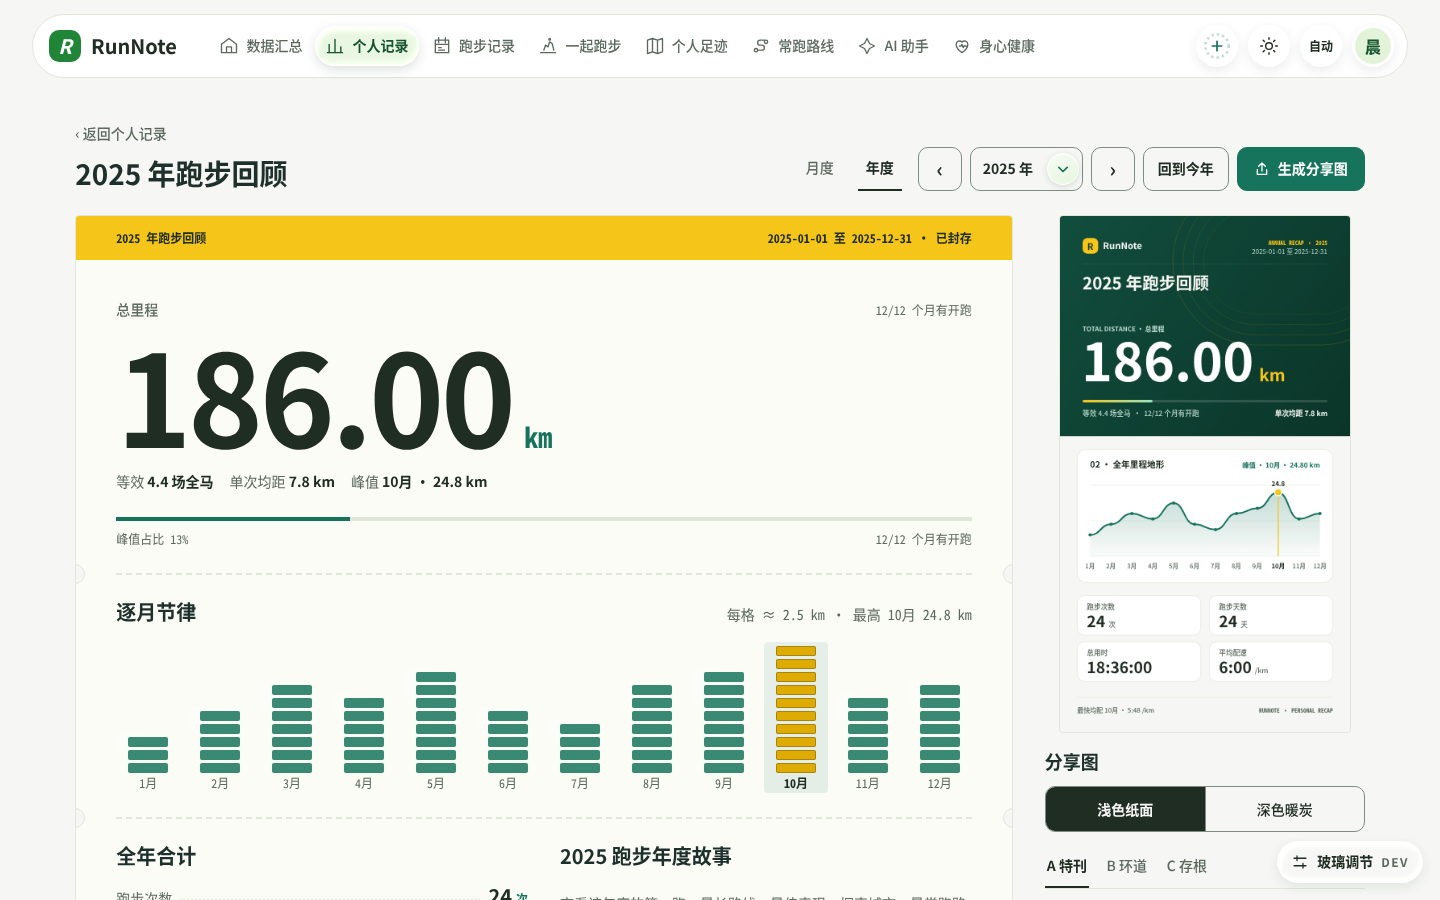
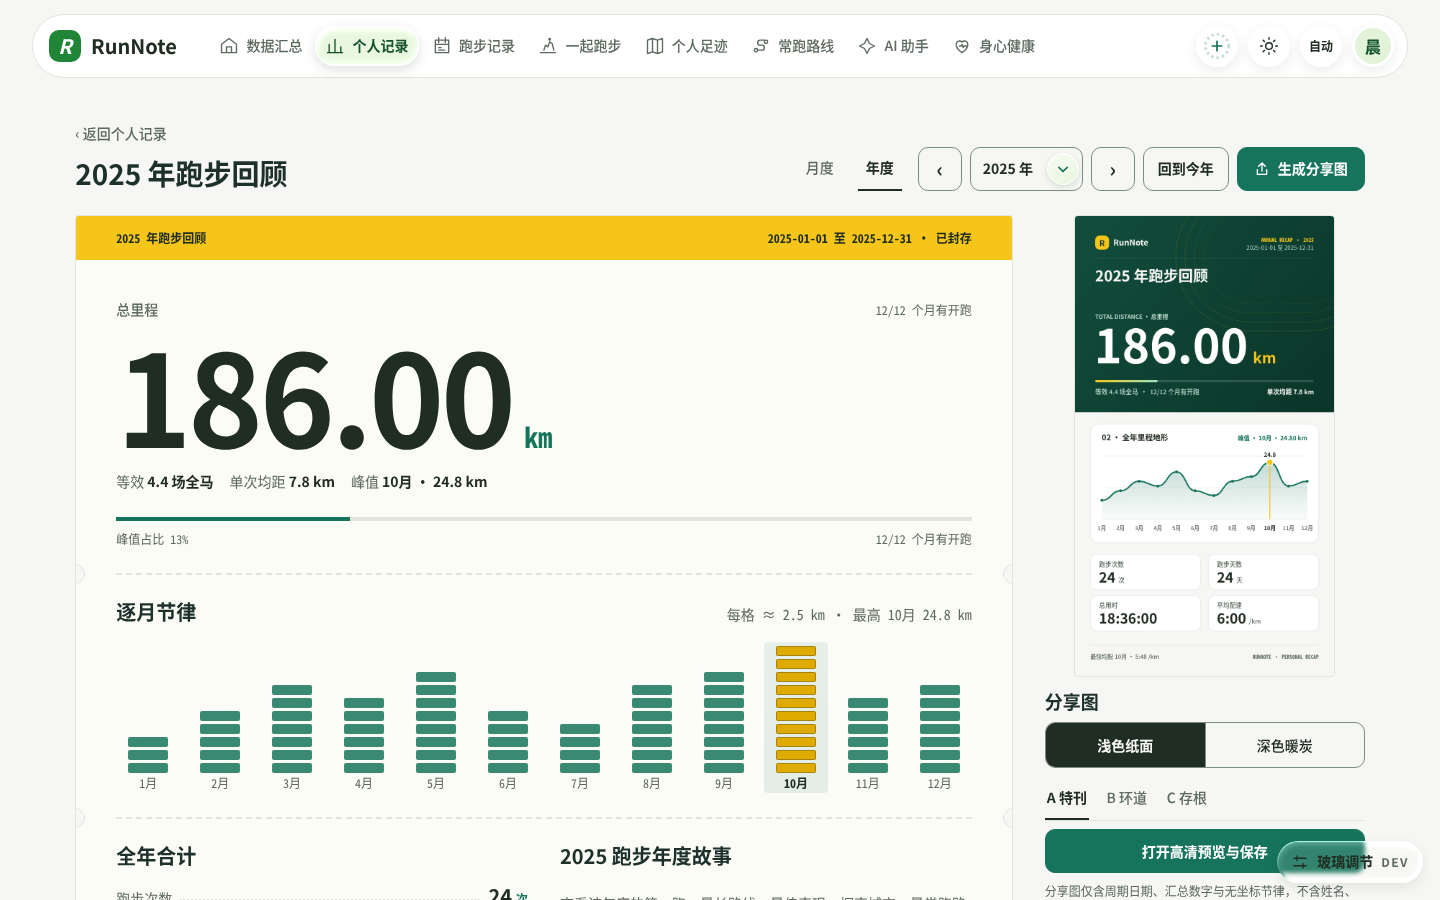
fix(web): fit share desk at scrollY=0 on 1440x768 and hatch zero-distance partial month

diff --git a/frontend/tests/ui/recap.spec.ts b/frontend/tests/ui/recap.spec.ts
@@ -684,30 +684,81 @@ for (const vp of [
   { name: '1440x768', width: 1440, height: 768 },
   { name: '1440x900', width: 1440, height: 900 },
 ]) {
-  test(`sticky share desk controls remain visible and clickable while mid-scrolled at ${vp.name}`, async ({ page }) => {
+  test(`sticky share desk controls remain visible and directly clickable at scrollY=0, mid, and bottom on ${vp.name}`, async ({
+    page,
+  }) => {
     await loginRunner(page);
     await page.setViewportSize({ width: vp.width, height: vp.height });
     await page.goto(recap + '?period=year&year=2025');
 
     const dock = page.getByTestId('recap-poster-dock');
-    await expect(dock.getByRole('img')).toBeVisible();
+    const posterImg = dock.getByRole('img');
+    await expect(posterImg).toBeVisible();
+    if (vp.name === '1440x900') {
+      const overviewBox = await page.getByTestId('recap-overview').boundingBox();
+      const deskColBox = await page.locator('.report-desk-col').boundingBox();
+      const imgBox = await posterImg.boundingBox();
+      expect(overviewBox).not.toBeNull();
+      expect(deskColBox).not.toBeNull();
+      expect(imgBox).not.toBeNull();
+      // Preserve two-column 20rem (320px) share desk and tall 9:16 preview at 1440x900.
+      expect(deskColBox!.x).toBeGreaterThan(overviewBox!.x + overviewBox!.width - 1);
+      expect(Math.abs(deskColBox!.width - 320)).toBeLessThanOrEqual(1);
+      expect(Math.abs(imgBox!.width / imgBox!.height - 9 / 16)).toBeLessThan(0.02);
+      expect(imgBox!.height).toBeGreaterThanOrEqual(400);
+    }
+    const styleB = dock.getByRole('button', { name: 'B 环道' });
     const styleC = dock.getByRole('button', { name: 'C 存根' });
     const launchBtn = dock.getByRole('button', { name: '打开高清预览与保存' });
+    await expect(launchBtn).toBeEnabled();
 
-    for (const scrollY of [400, 800]) {
-      await page.evaluate((y) => window.scrollTo(0, y), scrollY);
-      const boxes = await Promise.all([styleC.boundingBox(), launchBtn.boundingBox()]);
-      for (const box of boxes) {
-        expect(box, `control visible at scrollY=${scrollY}`).not.toBeNull();
-        expect(box!.y).toBeGreaterThanOrEqual(0);
-        expect(box!.y + box!.height).toBeLessThanOrEqual(vp.height);
-      }
-    }
+    const assertInViewportAndHittable = async (locator: typeof launchBtn, label: string) => {
+      const box = await locator.boundingBox();
+      expect(box, `${label} bounding box`).not.toBeNull();
+      expect(box!.y, `${label} top inside viewport`).toBeGreaterThanOrEqual(0);
+      expect(box!.y + box!.height, `${label} bottom inside viewport`).toBeLessThanOrEqual(vp.height);
+      const hitMatches = await locator.evaluate((el) => {
+        const rect = el.getBoundingClientRect();
+        const cx = rect.left + rect.width / 2;
+        const cy = rect.top + rect.height / 2;
+        const hit = document.elementFromPoint(cx, cy);
+        return Boolean(hit && (hit === el || el.contains(hit)));
+      });
+      expect(hitMatches, `${label} center hittable via elementFromPoint`).toBe(true);
+    };
+
+    // scrollY === 0: controls must fit above the fold and open dialog without causing scroll.
+    expect(await page.evaluate(() => window.scrollY)).toBe(0);
+    await assertInViewportAndHittable(styleC, 'styleC at scrollY=0');
+    await assertInViewportAndHittable(launchBtn, 'launchBtn at scrollY=0');
 
     await styleC.click();
     await expect(styleC).toHaveAttribute('aria-pressed', 'true');
+    expect(await page.evaluate(() => window.scrollY)).toBe(0);
+
     await launchBtn.click();
     const dialog = page.getByRole('dialog', { name: '分享图预览' });
+    await expect(dialog).toBeVisible();
+    expect(await page.evaluate(() => window.scrollY)).toBe(0);
+    await page.keyboard.press('Escape');
+    await expect(dialog).toHaveCount(0);
+
+    // Mid (0.5) and bottom (1.0) scroll checkpoints: controls remain inside viewport and hittable.
+    const maxScroll = await page.evaluate(() =>
+      Math.max(0, document.documentElement.scrollHeight - window.innerHeight),
+    );
+    expect(maxScroll).toBeGreaterThan(200);
+    for (const ratio of [0.5, 1]) {
+      const targetY = Math.round(maxScroll * ratio);
+      await page.evaluate((y) => window.scrollTo(0, y), targetY);
+      await assertInViewportAndHittable(styleC, `styleC at ratio=${ratio}`);
+      await assertInViewportAndHittable(launchBtn, `launchBtn at ratio=${ratio}`);
+    }
+
+    await page.evaluate((y) => window.scrollTo(0, y), Math.round(maxScroll * 0.5));
+    await styleB.click();
+    await expect(styleB).toHaveAttribute('aria-pressed', 'true');
+    await launchBtn.click();
     await expect(dialog).toBeVisible();
     await page.keyboard.press('Escape');
     await expect(dialog).toHaveCount(0);
@@ -740,4 +791,141 @@ test('in-progress partial month in punch-card rhythm uses hatched mark and acces
   const janBtn = punch.getByRole('button', { name: /^1月/ });
   await expect(janBtn).not.toHaveAttribute('data-partial', 'true');
   await expect(janBtn).not.toHaveAccessibleName(/进行中/);
+});
+
+test('zero-distance in-progress partial month still renders visible hatched mark consistent with legend and aria name', async ({
+  page,
+}) => {
+  await loginRunner(page);
+  const bucket = (
+    month: number,
+    overrides: Partial<{
+      bucket_start: string;
+      bucket_end: string;
+      activity_count: number;
+      activity_days: number;
+      distance_m: string;
+      duration_sum_seconds: number | null;
+      known_duration_count: number;
+      missing_duration_count: number;
+      pace_eligible_count: number;
+      pace_eligible_distance_m: string;
+      avg_pace_seconds_per_km: string | null;
+      is_partial: boolean;
+    }> = {},
+  ) => {
+    const mm = String(month).padStart(2, '0');
+    const nextYear = month === 12 ? 2027 : 2026;
+    const nextMm = String(month === 12 ? 1 : month + 1).padStart(2, '0');
+    return {
+      bucket_start: `2026-${mm}-01`,
+      bucket_end: `${nextYear}-${nextMm}-01`,
+      activity_count: 0,
+      activity_days: 0,
+      distance_m: '0.000',
+      duration_sum_seconds: null,
+      known_duration_count: 0,
+      missing_duration_count: 0,
+      pace_eligible_count: 0,
+      pace_eligible_distance_m: '0.000',
+      avg_pace_seconds_per_km: null,
+      quality_warning_count: 0,
+      date_assignment: 'activity_local_date',
+      is_partial: false,
+      ...overrides,
+    };
+  };
+
+  await page.route('**/api/v1/statistics/report**', (route) =>
+    route.fulfill({
+      status: 200,
+      json: {
+        data: {
+          period: 'year',
+          year: 2026,
+          month: null,
+          date_from: '2026-01-01',
+          date_to: '2026-11-29',
+          is_partial: true,
+          cutoff_date: '2026-11-28',
+          today: '2026-11-28',
+          activity_count: 4,
+          activity_days: 4,
+          distance_m: '40000.000',
+          duration_sum_seconds: 14400,
+          known_duration_count: 4,
+          missing_duration_count: 0,
+          pace_eligible_count: 4,
+          pace_eligible_distance_m: '40000.000',
+          avg_pace_seconds_per_km: '360.000',
+          quality_warning_count: 0,
+          date_assignment: 'activity_local_date',
+        },
+        error: null,
+      },
+    }),
+  );
+  await page.route('**/api/v1/statistics/trends**', (route) =>
+    route.fulfill({
+      status: 200,
+      json: {
+        data: {
+          period: 'month',
+          date_from: '2026-01-01',
+          date_to: '2026-11-29',
+          week_start: 'monday',
+          date_assignment: 'activity_local_date',
+          buckets: [
+            bucket(1, {
+              activity_count: 4,
+              activity_days: 4,
+              distance_m: '40000.000',
+              duration_sum_seconds: 14400,
+              known_duration_count: 4,
+              missing_duration_count: 0,
+              pace_eligible_count: 4,
+              pace_eligible_distance_m: '40000.000',
+              avg_pace_seconds_per_km: '360.000',
+            }),
+            ...Array.from({ length: 9 }, (_, i) => bucket(i + 2)),
+            bucket(11, { bucket_end: '2026-11-29', is_partial: true }),
+          ],
+        },
+        error: null,
+      },
+    }),
+  );
+
+  await page.goto(recap + '?period=year&year=2026');
+  const punch = page.getByTestId('recap-punch-rhythm');
+  await expect(punch).toBeVisible();
+  await expect(punch).toContainText('斜线为进行中');
+
+  const partialCols = punch.locator('[data-partial="true"]');
+  await expect(partialCols).toHaveCount(1);
+  const novBtn = partialCols.first();
+  await expect(novBtn).toHaveAttribute('data-date', '2026-11-01');
+  await expect(novBtn).toHaveClass(/is-empty/);
+  await expect(novBtn).toHaveAccessibleName(/11月，0\.0 km，进行中（未结束）/);
+  await expect(novBtn.locator('.punch-blk')).toHaveCount(1);
+
+  const novStyle = await novBtn
+    .locator('.punch-blk')
+    .first()
+    .evaluate((el) => {
+      const cs = getComputedStyle(el);
+      return { backgroundImage: cs.backgroundImage, borderTopWidth: cs.borderTopWidth };
+    });
+  expect(novStyle.backgroundImage).toContain('repeating-linear-gradient');
+  expect(novStyle.borderTopWidth).toBe('2px');
+
+  // Sealed zero-distance month must remain plain empty (no hatch, no partial state).
+  const febBtn = punch.locator('button[data-date="2026-02-01"]');
+  await expect(febBtn).not.toHaveAttribute('data-partial', 'true');
+  await expect(febBtn).not.toHaveAccessibleName(/进行中/);
+  const febBg = await febBtn
+    .locator('.punch-blk')
+    .first()
+    .evaluate((el) => getComputedStyle(el).backgroundImage);
+  expect(febBg).toBe('none');
 });

diff --git a/frontend/src/routes/workspace/records/recap/+page.svelte b/frontend/src/routes/workspace/records/recap/+page.svelte
@@ -467,10 +467,9 @@
                   <span class="section-meta mono">
                     {#if distribution.max > 0 && distribution.derived.peakLabelCompact}
                       {punchUnitText} · 最高 {distribution.derived.peakLabelCompact}
-                      {km(distribution.max, 1)} km{#if hasInProgressPunch}
-                        · 斜线为进行中{/if}
+                      {km(distribution.max, 1)} km{#if hasInProgressPunch}{' · 斜线为进行中'}{/if}
                     {:else}
-                      本期暂无有效里程
+                      本期暂无有效里程{#if hasInProgressPunch}{' · 斜线为进行中'}{/if}
                     {/if}
                   </span>
                 </div>
@@ -890,6 +889,17 @@
   .punch-col.is-empty .punch-blk {
     background: transparent;
     box-shadow: inset 0 0 0 1.5px var(--border);
+    opacity: 1;
+  }
+  /* Zero-distance in-progress bucket keeps a single short block with visible hatch + primary cap so visual matches legend & aria-label. */
+  .punch-col.is-partial.is-empty .punch-blk {
+    background: repeating-linear-gradient(
+      135deg,
+      color-mix(in srgb, var(--primary) 36%, transparent) 0 2px,
+      transparent 2px 6px
+    );
+    box-shadow: inset 0 0 0 1.5px color-mix(in srgb, var(--primary) 75%, transparent);
+    border-top: 2px solid var(--primary);
     opacity: 1;
   }
   .punch-col.is-future .punch-blk {

diff --git a/frontend/src/lib/components/RecapShare.svelte b/frontend/src/lib/components/RecapShare.svelte
@@ -578,8 +578,15 @@
     }
   }
   @media (min-width: 1080px) {
-    /* Fit the sticky share desk (poster + controls) within shorter desktop viewports such as 1440×768
-       while preserving the tall 9:16 presence at 1440×900+. */
+    /* Fit the sticky share desk (poster + controls through the primary save CTA) within both
+       above-the-fold scrollY=0 (below the page masthead) and mid/bottom sticky scroll on 1440×768+,
+       while preserving the two-column 20rem desk and tall 9:16 preview at 1440×900+. */
+    .share-desk {
+      gap: var(--space-3);
+    }
+    .desk-controls {
+      gap: var(--space-2);
+    }
     .desk-frame {
       width: fit-content;
       max-width: 100%;
@@ -588,7 +595,7 @@
     .desk-frame img,
     .desk-placeholder {
       width: auto;
-      height: clamp(14rem, calc(100dvh - 24rem), 33rem);
+      height: clamp(14rem, calc(100dvh - 27.5rem), 33rem);
       max-width: 100%;
       aspect-ratio: 9 / 16;
     }

diff --git a/docs/105-editorial-receipt-report.md b/docs/105-editorial-receipt-report.md
@@ -10,7 +10,7 @@
   - **主票据纸（`.receipt-sheet.report-sheet`，`data-testid="recap-overview"`）**：取代原深森绿渐变 `.monolith` 卡片；顶部为唯一票头（`.receipt-header`，浅色 `--receipt` / `--receipt-ink`，深色 `--receipt-ink` / `--primary`），展示周期名称、日期范围及「已封存」或「进行中 · 截至 MM.DD」；主体依次呈现超大等宽主里程（桌面 `--text-period-hero`、手机 `--text-recap-hero`）与等宽主色单位 `km`、等效全马/单次均距/峰值参照、4px 平面占比标尺；经打孔虚线（`.receipt-perforation`）进入**逐月/逐周打孔节律**（`data-testid="recap-punch-rhythm"`，每格 ≈ 峰值 / 10，峰值柱以 `--receipt-mark` 与加粗标签双重标记，进行中未结束周期按 W-11 采用 `--primary` 斜线填充 + 顶部 2px 封边并标注 `data-partial="true"` 与「进行中（未结束）」读屏名称，点击可与下方里程地形及出勤节律双向联动）；再经打孔虚线进入底部双栏：**全年/本月合计**（`.leader-row` 点线引导，缺失值以 `—` + `sr-only` 呈现，覆盖注记改用 `.status-strip`）与年度模式下的**年度故事入口**（`data-testid="recap-story-entry"`，链接至 `/workspace/records/story?year=YYYY`）。
   - **02 · 里程地形与累计轨迹（`RecapDistribution`）**：去除 24px 白色卡片与胶囊巡检条，改为 `2px` 墨色节线（`.section-rule`）开头与发丝线平底巡检条；保留双轴 SVG 曲线、峰值标记、鼠标/键盘（`ArrowLeft`/`ArrowRight`/`Home`/`End`/`Enter`/`Space`）联动及 `<details>`「查看完整数据表」。
   - **03 · 出勤节律与均配速走势（`RecapRhythmSpread`）**：去除双卡片外框、胶囊徽章与环形进度（遵循 `brand.md §1.3`），改为 `1px` 发丝线分组（容器查询 ≥48rem 并排、窄屏纵排）；03A 出勤节律矩阵改用平面纸面账格 + 3px 底部进度条，保留全部按钮与选中联动；03B 均配速走势保留反纵轴折线、周期均线与最快期高亮。
-  - **右侧常驻分享台（`RecapShare`，`data-testid="recap-poster-dock"`）**：桌面端吸顶展示 9:16 实时缩略预览（去除倾斜旋转与渐变底；`>= 1080px` 下缩略图按 `clamp(14rem, calc(100dvh - 24rem), 33rem)` 适配可用视口高度，且 `max-height: 640px` 极矮桌面自动取消 sticky，确保 `1440×768` 与 `1440×900` 滚动中段版式切换与高清保存按钮均保持在视口内可点击）、浅色纸面/深色暖炭双段切换、`.underline-tabs` 版式快切（A 特刊 / B 环道 / C 存根）、「打开高清预览与保存」及隐私说明；平板（640–1079px）自动折为 2px 节线下的横向两栏，手机（<640px）单列堆叠。保留原有 1080×1920 原生 `<dialog data-glass-overlay>` 导出 PNG 与系统分享能力。
+  - **右侧常驻分享台（`RecapShare`，`data-testid="recap-poster-dock"`）**：桌面端吸顶展示 9:16 实时缩略预览（去除倾斜旋转与渐变底；`>= 1080px` 下缩略图按 `clamp(14rem, calc(100dvh - 27.5rem), 33rem)` 适配可用视口高度并收紧分享台纵向间距，且 `max-height: 640px` 极矮桌面自动取消 sticky，确保 `1440×768` 在 `scrollY=0` 首屏以及 `0.5` / `1.0` 滚动位置下版式切换与「打开高清预览与保存」按钮均完全落入视口并可直接点击，同时在 `1440×900` 完整保留 `20rem` 双栏分享台与 9:16 预览）、浅色纸面/深色暖炭双段切换、`.underline-tabs` 版式快切（A 特刊 / B 环道 / C 存根）、「打开高清预览与保存」及隐私说明；平板（640–1079px）自动折为 2px 节线下的横向两栏，手机（<640px）单列堆叠。保留原有 1080×1920 原生 `<dialog data-glass-overlay>` 导出 PNG 与系统分享能力。
 - **与 `web.html?page=report` 原型的差异与诚实省略**：
   - **未展示去年同期增量（原型 `比 2024 年多 212.3 km`）**：`/api/v1/statistics/report` 仅返回所选单周期的聚合结果，不提供去年同期差值；遵守「不改后端/API、不虚构指标」原则予以省略。
   - **未在回顾页内嵌年度叙事标题、最长连续周、探索城市、01–05 章节与分享图城市/路线脱敏开关**：上述数据来自 `/api/v1/statistics/annual-story`，已由独立伴生路由 `/workspace/records/story?year=YYYY` 承载（且仅存在年度维度，不适用于月度回顾）。本页在年度模式下于票据纸右下保留「查看年度故事」直达入口，不额外发起跨页面请求，也不重复实现年度故事页面；`/workspace/records/story` 与 `/records`（含 `PeriodReportCard`）保持原样，留待各自页面迁移。
@@ -32,19 +32,19 @@
 
 不新增或修改任何接口、查询参数或权限校验。`/workspace/records/recap` 继续由服务端工作区会话门控保护，仅使用本人会话调用 `GET /api/v1/statistics/report` 与 `GET /api/v1/statistics/trends`，401 时清空私人状态并跳转 `/admin?reason=expired&next=...`。9:16 分享图继续严格执行白名单，仅在浏览器本机 Canvas 2D 绘制周期日期、服务端汇总数字与无坐标分桶分布，不含姓名、账号、坐标、地点、备注或身心健康数据。全部截图与测试均基于合成数据。
 
-## 验证记录（2026-11-28，评审返修第 1 轮后，本机 Linux，Node 24.18，Chrome，Playwright 1.65）
+## 验证记录（2026-11-28，评审返修第 2 轮并变基至 `main @ 590801a8`，本机 Linux，Node 24.18，Chrome，Playwright 1.65）
 
 | 命令（`frontend/`） | 结果 |
 | --- | --- |
-| `./node_modules/.bin/svelte-kit sync && ./node_modules/.bin/svelte-check --tsconfig ./tsconfig.json` | 0 errors / 0 warnings |
-| `./node_modules/.bin/stylelint "src/**/*.{css,svelte}" "tests/fixtures/**/*.{css,svelte}"` | 通过 |
-| `./node_modules/.bin/vitest run` | 80 files / 528 tests passed |
-| `./node_modules/.bin/vite build` | 成功（仅既有大体积 chunk 提示） |
-| `playwright test --config playwright.ui.config.ts tests/ui/recap.spec.ts tests/ui/annual-story.spec.ts tests/ui/records.spec.ts --reporter=list` | 41 passed / 0 failed（含 `recap.spec.ts` 20/20：新增 P2 `1440×768` 与 `1440×900` 滚动 400/800px 后分享台版式切换与高清保存按钮视口内可见可点击断言、P3 当前进行中周期打孔斜线填充与「进行中（未结束）」读屏名称断言，以及 `annual-story.spec.ts` 7/7、`records.spec.ts` 14/14） |
+| `pnpm check`（`svelte-kit sync && svelte-check --tsconfig ./tsconfig.json`） | 0 errors / 0 warnings |
+| `pnpm lint:style`（`stylelint "src/**/*.{css,svelte}" "tests/fixtures/**/*.{css,svelte}"`） | 通过 |
+| `pnpm test`（`vitest run`） | 80 files / 528 tests passed |
+| `pnpm build`（`vite build`） | 成功（仅既有大体积 chunk 提示） |
+| `playwright test --config playwright.ui.config.ts tests/ui/recap.spec.ts tests/ui/annual-story.spec.ts tests/ui/records.spec.ts --reporter=list` | 42 passed / 0 failed（含 `recap.spec.ts` 21/21：验证 P2 `1440×768` 与 `1440×900` 在 `scrollY=0 / 0.5 / 1` 下分享台版式切换与「打开高清预览与保存」按钮视口内可见且 `elementFromPoint` 可直接点击、保持 `1440×900` `20rem` 双栏与 9:16 预览；验证 P3 进行中周期含零里程月份斜线填充 + `2px` 顶线、「斜线为进行中」图例与「进行中（未结束）」读屏名称；以及 `annual-story.spec.ts` 7/7、`records.spec.ts` 14/14） |
 
-### 视觉验收矩阵（合成数据，4 视口 × 浅/深色 + 矮屏滚动/进行中态）
+### 视觉验收矩阵（合成数据，多视口 × 浅/深色 + 矮屏首屏/滚动 + 零里程进行中态）
 
-`1440×900`、`1440×768`（滚动 400px：版式标签 `y=585.2..629.2`、高清保存按钮 `y=642.2..686.2`，均完全位于 `768px` 视口内）、`768×1024`、`390×844`、`320×640` 浅色与深色模式下横向溢出均为 0、控制台与页面错误均为 0；进行中年度当前月（如 `2026-11`）以斜线填充 + 2px 顶线区分已封存月份。
+`1440×900`（双栏右列 `320px` / `20rem`、9:16 缩略图 `258.8×460px`，比例 `0.5625`）、`1440×768`（`scrollY=0` 时 `C 存根` `y=644.2..688.2`、「打开高清预览与保存」`y=697.2..741.2`；滚动 `0.5` 时 `y=517.2..561.2` / `570.2..614.2`；滚动 `1.0` 时 `y=508.1..552.1` / `561.1..605.1`，全部落入 `768px` 视口内且直接可点）、`768×1024`、`390×844`、`320×640` 浅色与深色模式下横向溢出均为 0、控制台与页面错误均为 0；进行中年度零里程当前月（如 `2026-11`）渲染单格斜线填充 + `2px` 主色顶线 + 主色描边，与「斜线为进行中」图例及「11月，0.0 km，进行中（未结束）」读屏名称一致。
 
 | 视口 / 主题 | 修改前 | 修改后 |
 | --- | --- | --- |
@@ -57,7 +57,7 @@
 | 320×640 浅色 | ![](assets/2026-11-28-editorial-receipt-report/before-report-320-light.png) | ![](assets/2026-11-28-editorial-receipt-report/after-report-320-light.png) |
 | 320×640 深色 | ![](assets/2026-11-28-editorial-receipt-report/before-report-320-dark.png) | ![](assets/2026-11-28-editorial-receipt-report/after-report-320-dark.png) |
 
-整页、矮屏滚动（P2）、进行中打孔（P3）与交互态核对：[1440 浅色整页](assets/2026-11-28-editorial-receipt-report/after-report-1440-light-full.png)、[1440 深色整页](assets/2026-11-28-editorial-receipt-report/after-report-1440-dark-full.png)、[1440×768 浅色滚动中段（P2）](assets/2026-11-28-editorial-receipt-report/after-report-1440x768-light-scrolled.png)、[1440×768 深色滚动中段（P2）](assets/2026-11-28-editorial-receipt-report/after-report-1440x768-dark-scrolled.png)、[进行中周期斜线打孔浅色（P3）](assets/2026-11-28-editorial-receipt-report/after-report-1440-light-partial.png)、[进行中周期斜线打孔深色（P3）](assets/2026-11-28-editorial-receipt-report/after-report-1440-dark-partial.png)、[月度回顾](assets/2026-11-28-editorial-receipt-report/after-report-1440-light-month.png)、[分享图弹窗](assets/2026-11-28-editorial-receipt-report/after-report-1440-light-share-dialog.png)、[空周期状态](assets/2026-11-28-editorial-receipt-report/after-report-1440-light-empty.png)、[读取失败状态](assets/2026-11-28-editorial-receipt-report/after-report-1440-light-error.png)。
+整页、矮屏首屏/滚动（P2）、进行中与零里程打孔（P3）与交互态核对：[1440 浅色整页](assets/2026-11-28-editorial-receipt-report/after-report-1440-light-full.png)、[1440 深色整页](assets/2026-11-28-editorial-receipt-report/after-report-1440-dark-full.png)、[1440×768 浅色首屏 scrollY=0（P2）](assets/2026-11-28-editorial-receipt-report/after-report-1440x768-light-top.png)、[1440×768 深色首屏 scrollY=0（P2）](assets/2026-11-28-editorial-receipt-report/after-report-1440x768-dark-top.png)、[1440×768 浅色滚动中段（P2）](assets/2026-11-28-editorial-receipt-report/after-report-1440x768-light-scrolled.png)、[1440×768 深色滚动中段（P2）](assets/2026-11-28-editorial-receipt-report/after-report-1440x768-dark-scrolled.png)、[进行中周期斜线打孔浅色（P3）](assets/2026-11-28-editorial-receipt-report/after-report-1440-light-partial.png)、[进行中周期斜线打孔深色（P3）](assets/2026-11-28-editorial-receipt-report/after-report-1440-dark-partial.png)、[零里程进行中月份斜线打孔浅色（P3）](assets/2026-11-28-editorial-receipt-report/after-report-1440-light-partial-zero.png)、[零里程进行中月份斜线打孔深色（P3）](assets/2026-11-28-editorial-receipt-report/after-report-1440-dark-partial-zero.png)、[月度回顾](assets/2026-11-28-editorial-receipt-report/after-report-1440-light-month.png)、[分享图弹窗](assets/2026-11-28-editorial-receipt-report/after-report-1440-light-share-dialog.png)、[空周期状态](assets/2026-11-28-editorial-receipt-report/after-report-1440-light-empty.png)、[读取失败状态](assets/2026-11-28-editorial-receipt-report/after-report-1440-light-error.png)。
 
 ## 未验证项与剩余风险
 
